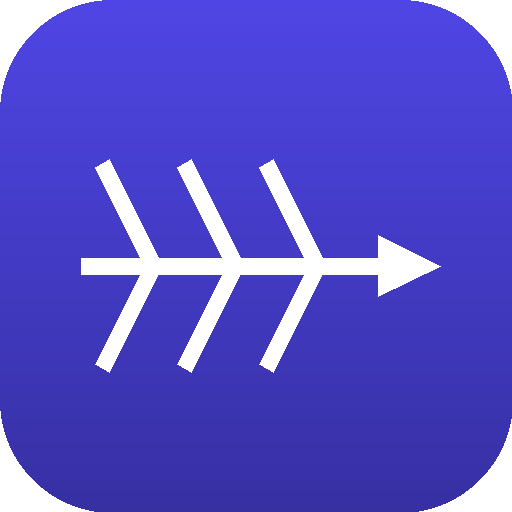
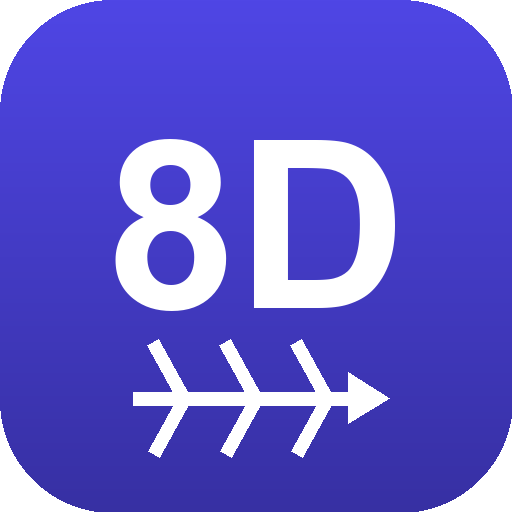
8D 앱 아이콘 적용 + GitHub Pages 배포 워크플로 추가
- icons: 8D + 피쉬본 심볼로 192/512/maskable 재생성
- sw.js: 캐시 v12 → v13 (새 아이콘 반영)
- .github/workflows/pages.yml: main push 시 Pages 자동 배포
- .gitignore 추가

Changed region(s): [[0.1562, 0.25, 0.875, 0.9062]]

diff --git a/sw.js b/sw.js
@@ -1,5 +1,5 @@
 /* 품질 대책서 PWA · 서비스 워커 (오프라인 캐시) */
-const CACHE = 'qcr-v12';
+const CACHE = 'qcr-v13';
 const ASSETS = [
   './',
   './index.html',

diff --git a/icons/make_icons.py b/icons/make_icons.py
@@ -1,65 +1,89 @@
-"""품질 대책서 PWA 아이콘 생성기 (PIL)"""
-from PIL import Image, ImageDraw
-import math
+"""품질 대책서 PWA 아이콘 생성기 (PIL) — 8D 심볼"""
+from PIL import Image, ImageDraw, ImageFont
 
 ACCENT = (79, 70, 229)        # indigo-600
 ACCENT_DK = (55, 48, 163)     # indigo-800
 WHITE = (255, 255, 255)
 
+FONT_CANDIDATES = [
+    r"C:\Windows\Fonts\arialbd.ttf",
+    r"C:\Windows\Fonts\segoeuib.ttf",
+    "/usr/share/fonts/truetype/dejavu/DejaVuSans-Bold.ttf",
+]
 
-def rounded(size, radius):
+
+def load_font(px):
+    for path in FONT_CANDIDATES:
+        try:
+            return ImageFont.truetype(path, px)
+        except OSError:
+            continue
+    return ImageFont.load_default()
+
+
+def rounded_mask(size, radius):
     m = Image.new("L", (size, size), 0)
-    d = ImageDraw.Draw(m)
-    d.rounded_rectangle([0, 0, size, size], radius=radius, fill=255)
+    ImageDraw.Draw(m).rounded_rectangle([0, 0, size, size], radius=radius, fill=255)
     return m
 
 
-def make(size):
+def gradient(size):
     img = Image.new("RGBA", (size, size), (0, 0, 0, 0))
     d = ImageDraw.Draw(img)
-    # 배경 그라데이션 (수직)
     for y in range(size):
         t = y / size
-        r = int(ACCENT[0] * (1 - t) + ACCENT_DK[0] * t)
-        g = int(ACCENT[1] * (1 - t) + ACCENT_DK[1] * t)
-        b = int(ACCENT[2] * (1 - t) + ACCENT_DK[2] * t)
-        d.line([(0, y), (size, y)], fill=(r, g, b, 255))
-    img.putalpha(rounded(size, int(size * 0.22)))
+        d.line(
+            [(0, y), (size, y)],
+            fill=(
+                int(ACCENT[0] * (1 - t) + ACCENT_DK[0] * t),
+                int(ACCENT[1] * (1 - t) + ACCENT_DK[1] * t),
+                int(ACCENT[2] * (1 - t) + ACCENT_DK[2] * t),
+                255,
+            ),
+        )
+    return img
 
+
+def draw_content(img, scale=1.0):
+    """중앙에 '8D' + 하단 피쉬본 화살표. scale<1 이면 안전 영역 축소(마스커블)."""
+    size = img.width
     d = ImageDraw.Draw(img)
-    cx, cy = size / 2, size / 2
-    # 특성요인도(피쉬본) 상징 - 중심 척추 + 대각선 뼈
-    lw = max(2, int(size * 0.035))
-    spine_y = cy + size * 0.02
-    d.line([(size * 0.16, spine_y), (size * 0.78, spine_y)], fill=WHITE, width=lw)
-    # 화살표 머리
-    d.polygon([
-        (size * 0.86, spine_y),
-        (size * 0.74, spine_y - size * 0.06),
-        (size * 0.74, spine_y + size * 0.06),
-    ], fill=WHITE)
-    for i, bx in enumerate((0.30, 0.46, 0.62)):
-        d.line([(size * bx, spine_y), (size * (bx - 0.10), spine_y - size * 0.20)],
-               fill=WHITE, width=lw)
-        d.line([(size * bx, spine_y), (size * (bx - 0.10), spine_y + size * 0.20)],
-               fill=WHITE, width=lw)
+    cx = size / 2
+    cy = size / 2 - size * 0.06 * scale
+
+    font = load_font(int(size * 0.46 * scale))
+    text = "8D"
+    box = d.textbbox((0, 0), text, font=font)
+    tw, th = box[2] - box[0], box[3] - box[1]
+    d.text((cx - tw / 2 - box[0], cy - th / 2 - box[1]), text, font=font, fill=WHITE)
+
+    # 하단 피쉬본 스파인 + 화살표
+    lw = max(2, int(size * 0.028 * scale))
+    y = cy + th / 2 + size * 0.17 * scale
+    x0 = cx - size * 0.24 * scale
+    x1 = cx + size * 0.18 * scale
+    d.line([(x0, y), (x1, y)], fill=WHITE, width=lw)
+    ah = size * 0.05 * scale
+    d.polygon([(x1 + ah * 1.6, y), (x1, y - ah), (x1, y + ah)], fill=WHITE)
+    for bx in (x0 + size * 0.10 * scale, x0 + size * 0.24 * scale, x0 + size * 0.38 * scale):
+        d.line([(bx, y), (bx - size * 0.06 * scale, y - size * 0.11 * scale)], fill=WHITE, width=lw)
+        d.line([(bx, y), (bx - size * 0.06 * scale, y + size * 0.11 * scale)], fill=WHITE, width=lw)
+
+
+def make_standard(size):
+    img = gradient(size)
+    img.putalpha(rounded_mask(size, int(size * 0.22)))
+    draw_content(img, scale=1.0)
     img.save(f"icon-{size}.png")
 
 
-for s in (192, 512):
-    make(s)
+def make_maskable(size):
+    img = gradient(size)  # 풀블리드 (라운딩 없음)
+    draw_content(img, scale=0.78)  # 안전 영역 안으로
+    img.save(f"icon-maskable-{size}.png")
 
-# 마스커블용 (여백 큰 버전)
-big = Image.new("RGBA", (512, 512), (0, 0, 0, 0))
-d = ImageDraw.Draw(big)
-for y in range(512):
-    t = y / 512
-    r = int(ACCENT[0] * (1 - t) + ACCENT_DK[0] * t)
-    g = int(ACCENT[1] * (1 - t) + ACCENT_DK[1] * t)
-    b = int(ACCENT[2] * (1 - t) + ACCENT_DK[2] * t)
-    d.line([(0, y), (512, y)], fill=(r, g, b, 255))
-inner = make(512) or Image.open("icon-512.png")
-scaled = Image.open("icon-512.png").resize((360, 360))
-big.paste(scaled, (76, 76), scaled)
-big.save("icon-maskable-512.png")
+
+make_standard(192)
+make_standard(512)
+make_maskable(512)
 print("icons done")
